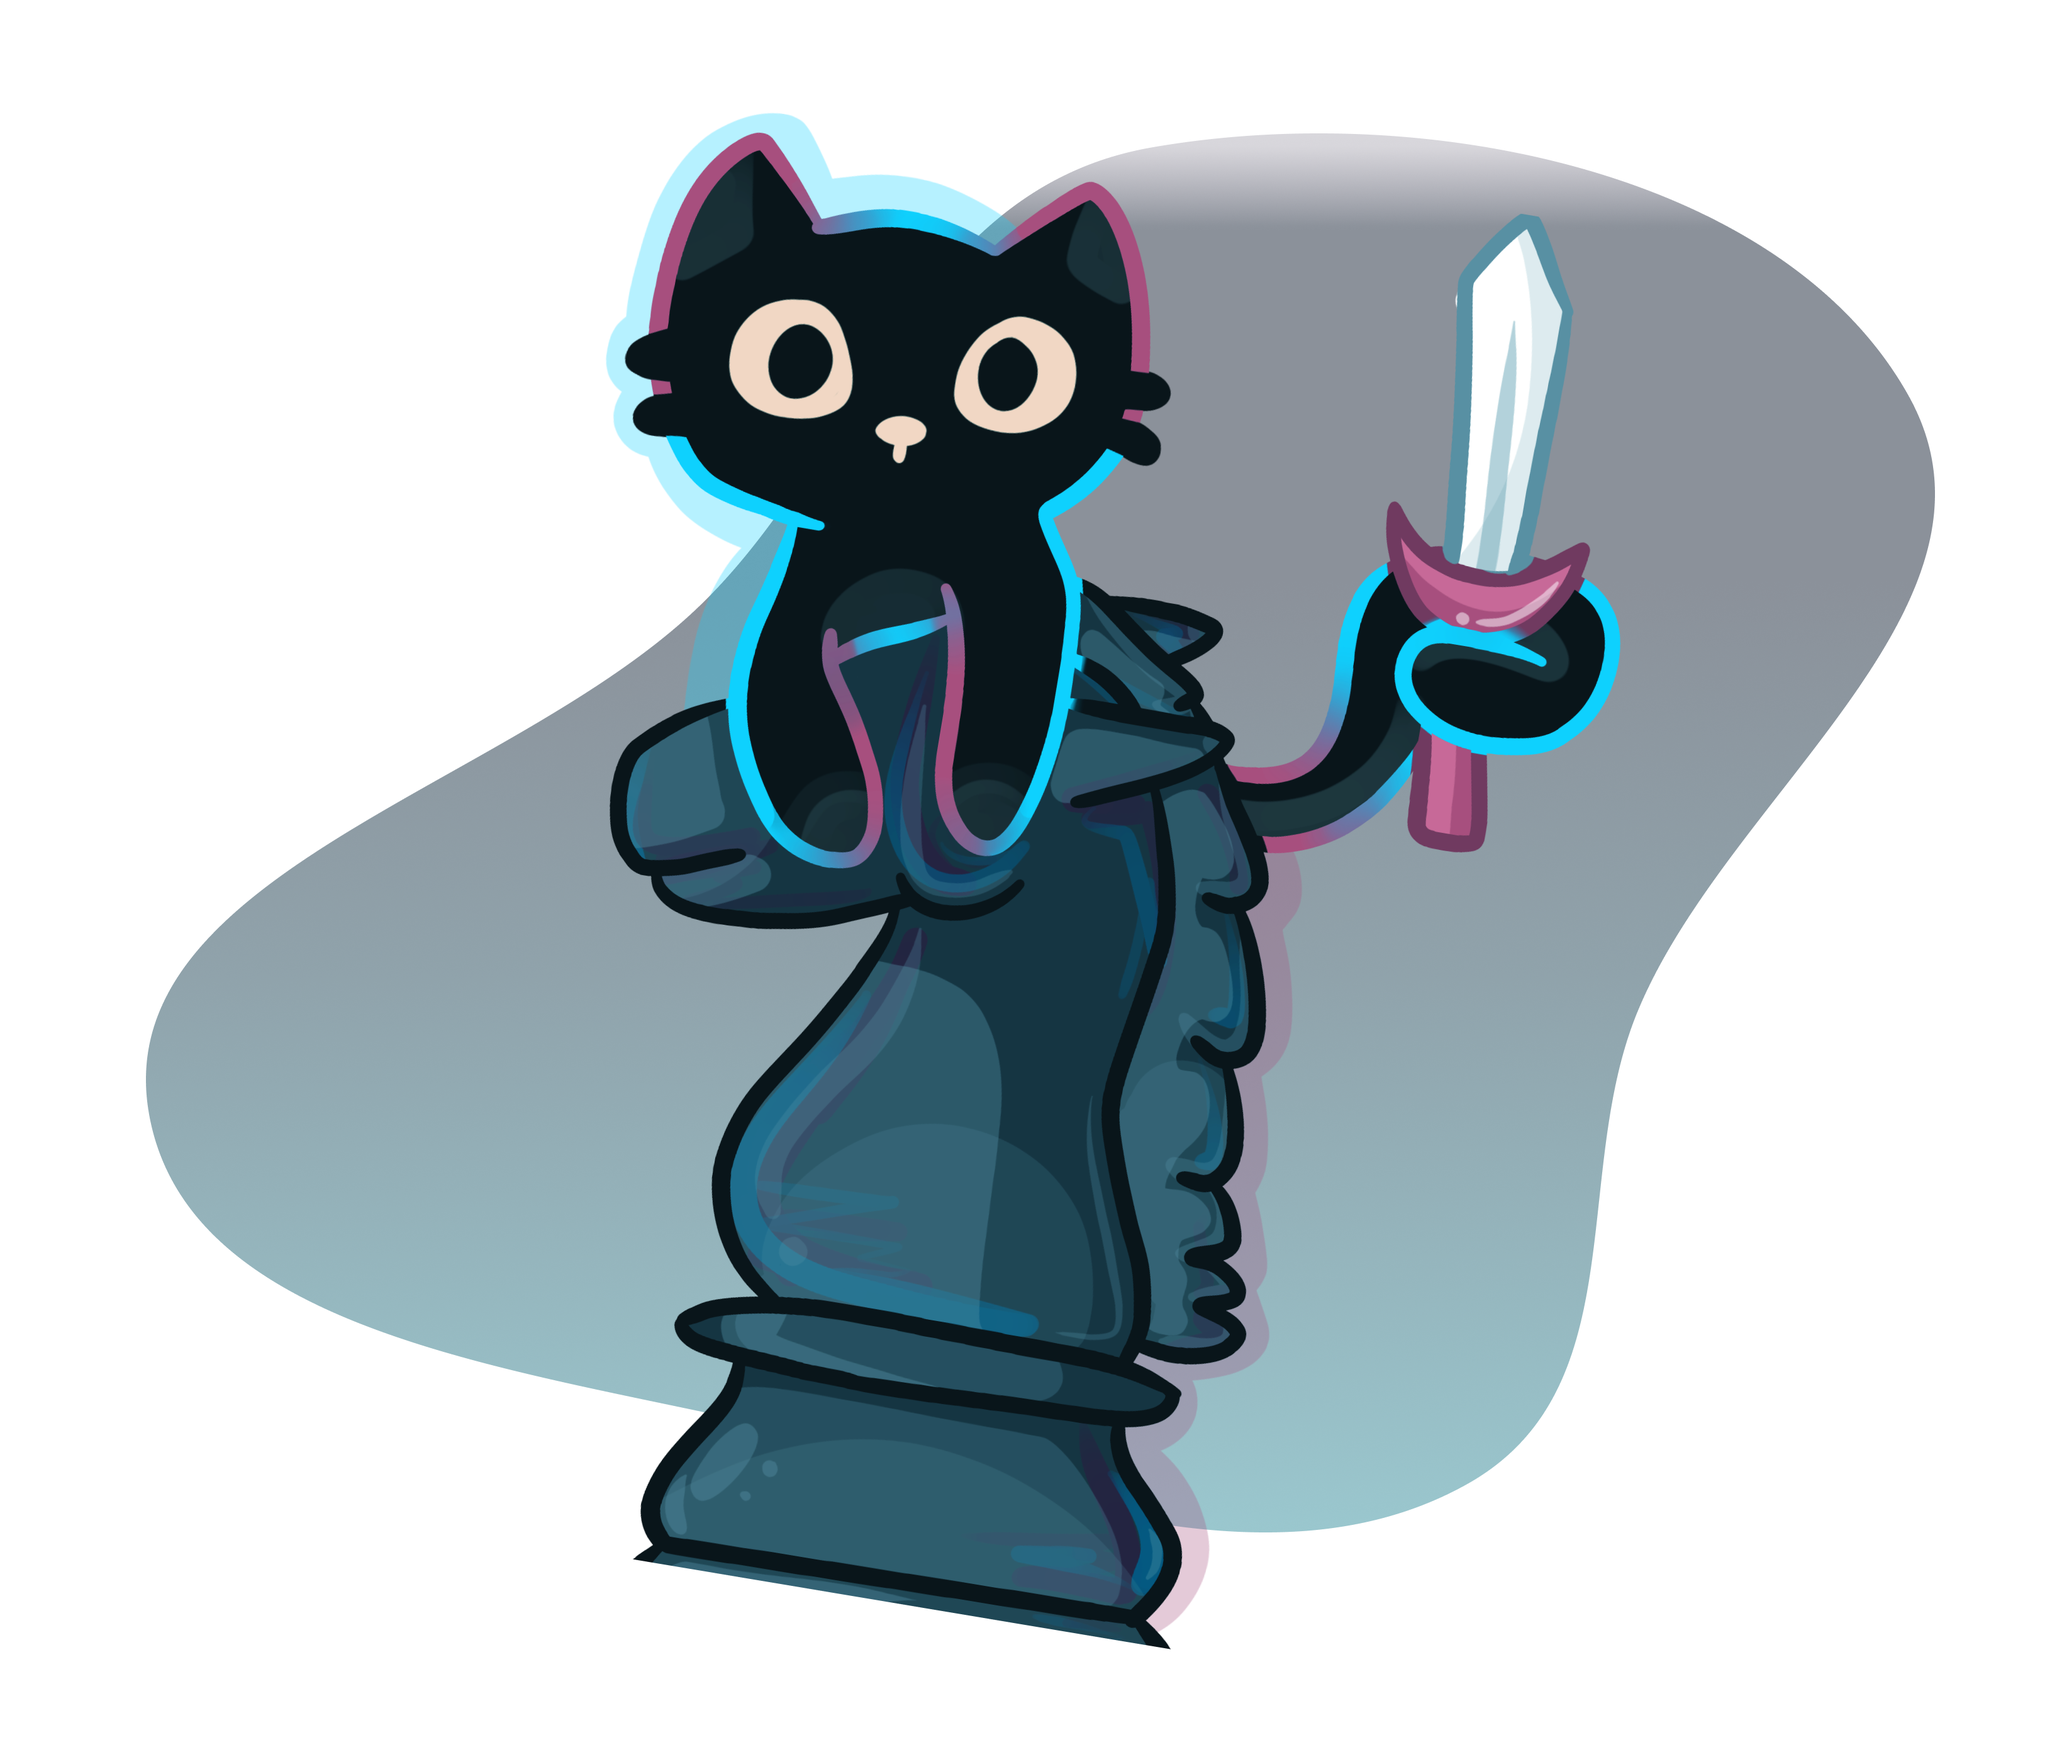
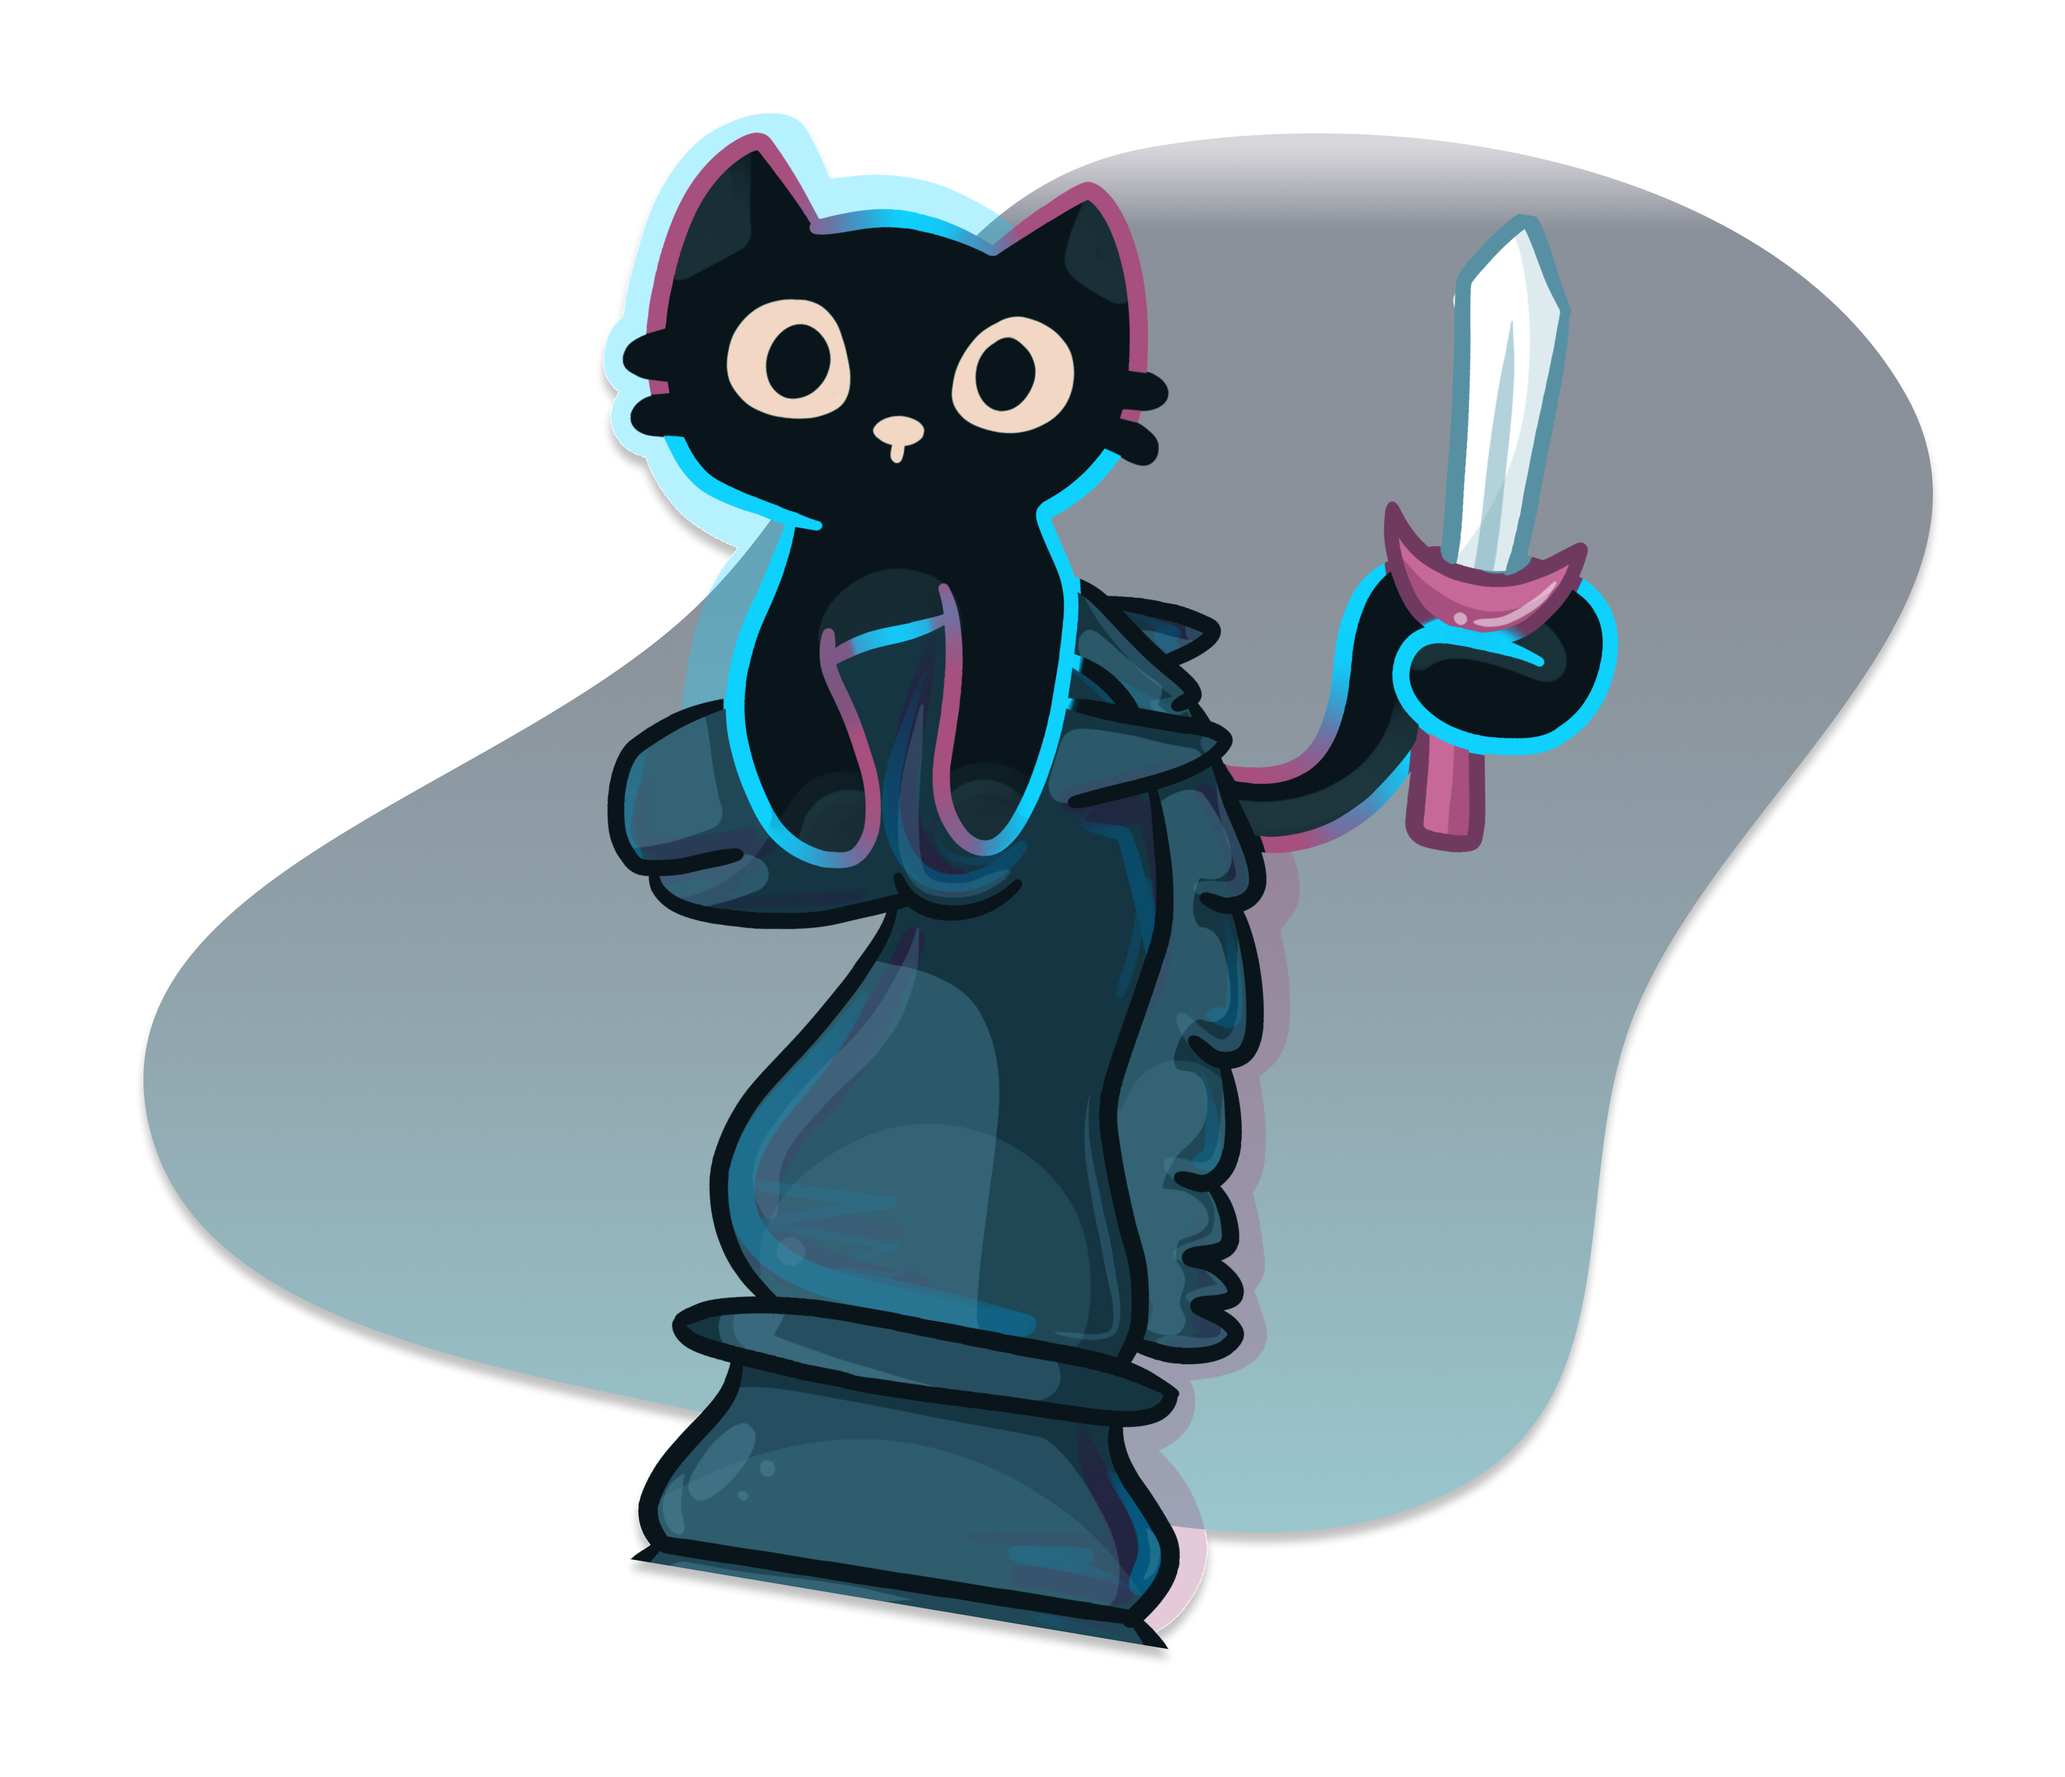
images larger, fixing quality issues

diff --git a/app/(pre-dashboard)/(landing)/sections/GenericSection.tsx b/app/(pre-dashboard)/(landing)/sections/GenericSection.tsx
@@ -8,16 +8,16 @@ type GenericSectionProps = {
 };
 
 export default function GenericSection(props: GenericSectionProps) {
-  const defaultColor = 'bg-dark_blue_figma';
+  const defaultColor = 'bg-blue-500';
   const bgColorNew = props.color ? `${props.color}` : defaultColor;
   return (
     <div
       id={props.title}
-      className={'flex w-full flex-col items-center bg-dark_blue_figma sections'}
+      className={'flex w-full flex-col items-center bg-blue-500 sections'}
     >
       <SectionTitle title={props.title} />
       <div className="w-full h-fit sections relative">
-        <div className="absolute bg-dark_blue_figma top-0 w-full h-full " />
+        <div className="absolute bg-blue-500 top-0 w-full h-full " />
         {props.children}
       </div>
       <div className={`h-[15vh] w-full ${bgColorNew}`}></div>

diff --git a/app/(pre-dashboard)/(landing)/page.tsx b/app/(pre-dashboard)/(landing)/page.tsx
@@ -45,7 +45,7 @@ export default async function Page() {
         </GenericSection> */}
         <div className="bg-gradient-to-b from-dark_blue_figma to-[#1B1F23]">
           <Image
-            src="/landing/machine.svg"
+            src="/landing/machine.png"
             alt="bottom image"
             object-fit="cover"
             style={{
@@ -54,6 +54,8 @@ export default async function Page() {
             }}
             width={400}
             height={300}
+            quality={100}
+            unoptimized
           />
         </div>
       </div>

diff --git a/app/(pre-dashboard)/(landing)/sections/About.tsx b/app/(pre-dashboard)/(landing)/sections/About.tsx
@@ -6,7 +6,7 @@ import GenericSection from './GenericSection';
 import SectionTitle from './SectionTitle';
 import { longCang } from '@/app/ui/fonts';
 
-const animalQuality = 50;
+const animalQuality = 100;
 
 function AboutInfo({
   children,
@@ -64,7 +64,7 @@ function AboutInfo({
           src={imageSrc}
           width="400"
           height="400"
-          className="w-[400px] lg:w-[600px]"
+          className="w-[600px] lg:w-[800px]"
           alt={alt}
           quality={animalQuality}
         />

diff --git a/app/(pre-dashboard)/(landing)/sections/Hero/Hero.tsx b/app/(pre-dashboard)/(landing)/sections/Hero/Hero.tsx
@@ -58,7 +58,7 @@ export default function Hero() {
         id="Home"
       >
         <div className='relative flex w-full justify-center'>
-          <div className = 'h-auto w-[790px] xs:max-w-[320px] sm:max-w-[576px] md:w-[600px] md:min-w-[500px] lg:w-[700px] xl:w-[800px]'>
+          <div className = 'h-auto w-[790px] xs:max-w-[400px] sm:max-w-[500px] md:w-[600px] md:min-w-[700px] lg:w-[800px] xl:w-[900px] z-10'>
         <Image
           src={POKER_IMG[0]}
           alt="Poker"

diff --git a/app/ui/global.css b/app/ui/global.css
@@ -97,7 +97,7 @@ input[type='number']::-webkit-outer-spin-button {
   left: 50%;
   width: 150%;
   height: 35%;
-  background-color: #1b1f23;
+  background-color: #141719;
   border-radius: 50%;
   transform: translateX(-50%) translateY(50%);
   z-index: 4;
@@ -109,7 +109,7 @@ input[type='number']::-webkit-outer-spin-button {
   top: 0;
   width: 100%;
   /* height: 100%; */
-  background-color: #1b1f23;
+  background-color: #141719;
   z-index: 1;
 }
 

diff --git a/app/(pre-dashboard)/(landing)/sections/Hero/Navbar.tsx b/app/(pre-dashboard)/(landing)/sections/Hero/Navbar.tsx
@@ -113,7 +113,7 @@ function Navbar() {
 
   return (
     <div
-      className={`z-40 flex w-full justify-end md:fixed ${longCang.className}`}
+      className={`z-40 flex w-full justify-end md:fixed bg-gradient-to-b from-blue-500 to-transparent ${longCang.className}`}
       id="navbar"
     >
       <div
